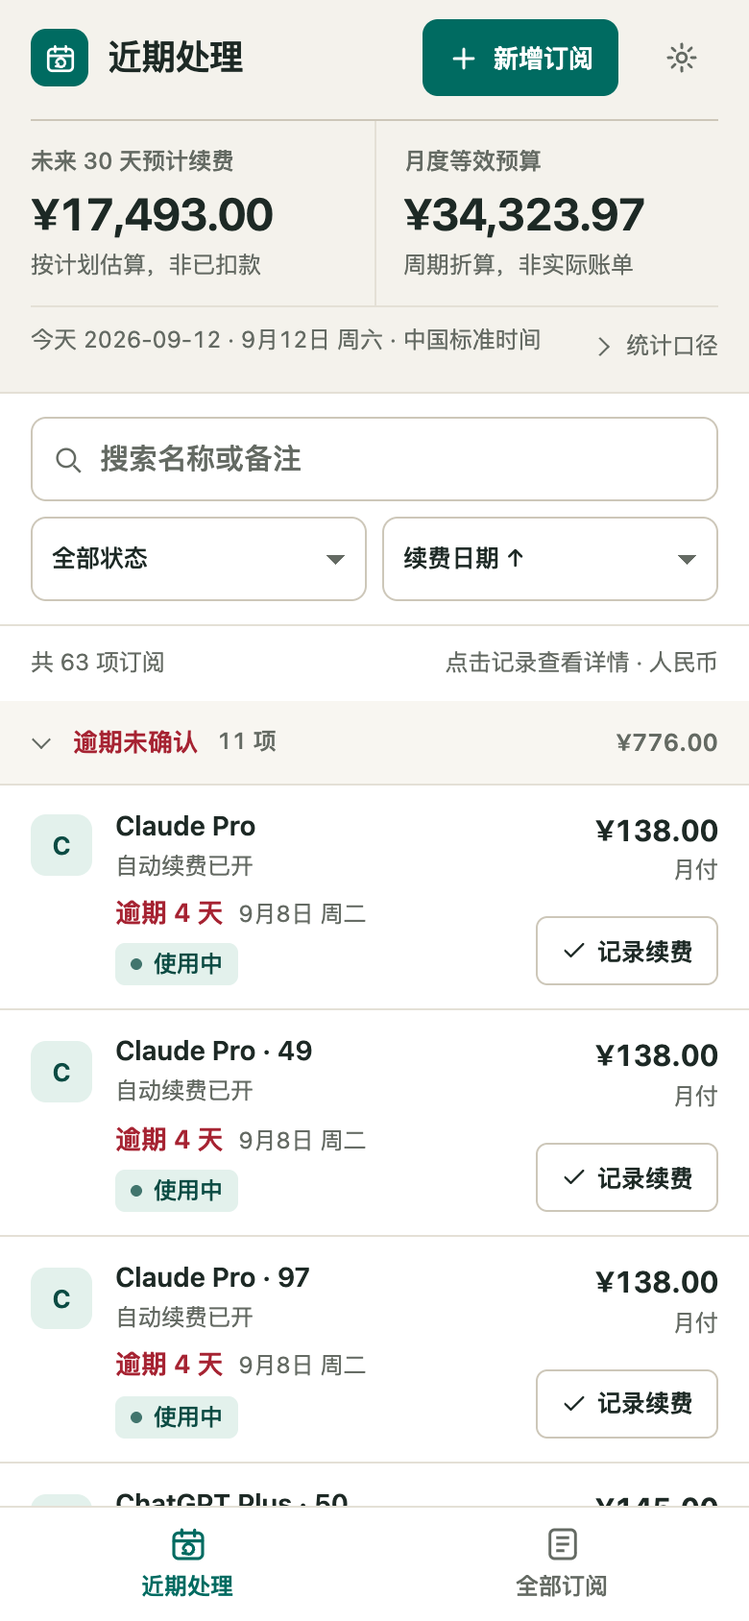
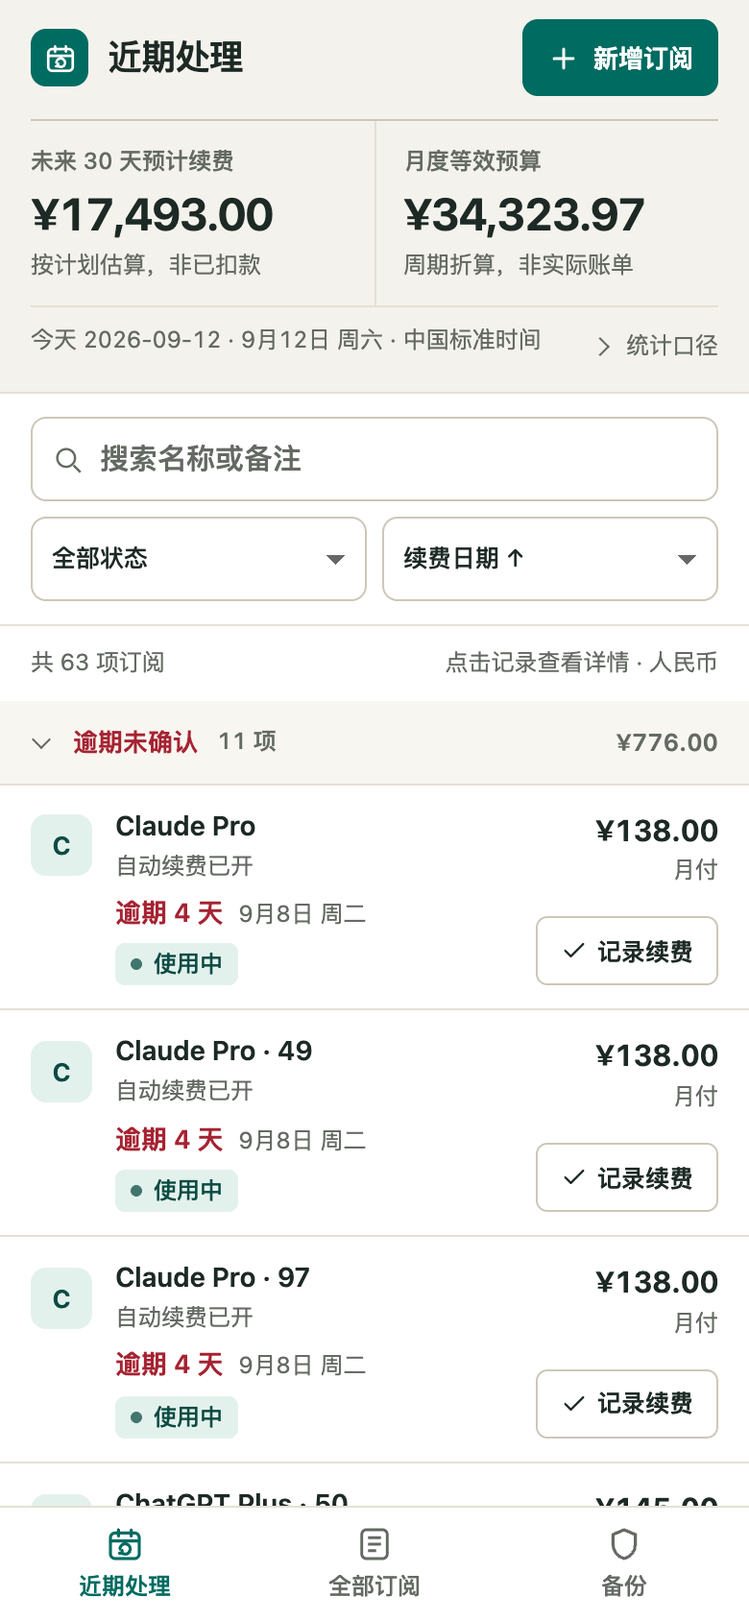
feat: backup back in sidebar, bottom-left logout, manual light/dark theme
- 侧栏依次为 近期处理 / 全部订阅 / 数据备份；左下角为外观切换与退出登录，右上角菜单撤除
- 手机底栏恢复三个视图，备份页底部提供外观切换与退出登录
- 新增 theme.js：首帧前读取本地偏好写入 data-theme；深色令牌同时支持跟随系统与手动指定
- 修正折叠侧栏时分组条数被误隐藏的问题
- README、验收记录、PRODUCT.md 与 docs/ui 截图同步更新

diff --git a/static/app.js b/static/app.js
@@ -44,13 +44,12 @@ async function api(url, method='GET', body) {
       csrf='';items=[];stats={};focusKey='';filterKey='all';viewKey='recent';keyword='';sortKey='date';collapsedGroups.clear();
       selectedId='';displayedDetailId='';history.replaceState(null,'',location.pathname+location.search);
       $('#search').value='';$('#sort').value='date';$('#filter').value='all';
-      $('#ledger').hidden=true; $('#login-panel').hidden=false; $('#logout').hidden=true;
+      $('#ledger').hidden=true; $('#login-panel').hidden=false; $('#logout').hidden=true; $('#logout-mobile').hidden=true;
       for(const s of ['#items','#detail-body','#detail-actions'])$(s).replaceChildren();
       for(const s of ['#budget','#forecast','#window-note','#renew-name','#renew-diff','#message','#edit-error','#renew-error','#restore-status','#detail-title','#result-count','#recent-count','#all-count','#plan-preview','#overdue-count','#confirm-title','#confirm-body','#confirm-note'])$(s).textContent='';
       $('#message').className='';
       for(const s of ['#editor','#renew-dialog','#detail','#confirm-dialog'])if($(s).open)$(s).close();
       $('#item-form').reset();$('#renew-form').reset();$('#import-file').value='';$('#restore').disabled=true;
-      try{$('#menu').hidePopover();}catch(e){/* popover 未打开或不支持时忽略 */}
       try{csrf=(await api('/api/session')).csrf;}catch(e){/* Login retries session discovery; private DOM stays cleared. */}
     }
     throw new Error(data.error||`请求失败 ${response.status}`);
@@ -248,7 +247,7 @@ function renew(r) {
   $('#renew-dialog').showModal();
 }
 async function submitGuard(form, fn, target) {const b=form.querySelector('button[type="submit"]');const original=b.textContent;b.disabled=true;b.textContent='保存中…';target.textContent='';try{await fn();}catch(e){target.textContent=e.message;}finally{b.disabled=false;b.textContent=original;}}
-$('#login-form').addEventListener('submit',e=>{e.preventDefault();submitGuard(e.target,async()=>{csrf=(await api('/api/session')).csrf;const result=await api('/api/login','POST',{password:e.target.elements.password.value});csrf=result.csrf;e.target.reset();$('#login-panel').hidden=true;$('#ledger').hidden=false;$('#logout').hidden=false;await load();},$('#message'));});
+$('#login-form').addEventListener('submit',e=>{e.preventDefault();submitGuard(e.target,async()=>{csrf=(await api('/api/session')).csrf;const result=await api('/api/login','POST',{password:e.target.elements.password.value});csrf=result.csrf;e.target.reset();$('#login-panel').hidden=true;$('#ledger').hidden=false;$('#logout').hidden=false;$('#logout-mobile').hidden=false;await load();},$('#message'));});
 $('#item-form').addEventListener('submit',e=>{e.preventDefault();submitGuard(e.target,async()=>{const f=e.target.elements;const r={};for(const key of ['name','amount','cycle','next_date','status','url','notes'])r[key]=f[key].value;r.days=r.cycle==='days'?Number(f.days.value):null;r.end_date=f.end_date.value||null;r.auto_renew=f.auto_renew.checked;const editing=f.id.value;clearReport();await api(editing?`/api/items/${editing}`:'/api/items',editing?'PUT':'POST',r);$('#editor').close();focusKey=editing?`${editing}:detail`:'';try{await load();}catch(error){reportError('已保存，但列表刷新失败：'+error.message);return;}reportOk(editing?`已保存「${r.name}」`:`已新增「${r.name}」`);},$('#edit-error'));});
 $('#renew-form').addEventListener('submit',e=>{e.preventDefault();submitGuard(e.target,async()=>{const f=e.target.elements;const r=items.find(x=>x.id===f.id.value);clearReport();await api(`/api/items/${f.id.value}/renew`,'POST',{actual_date:f.actual_date.value,next_date:f.next_date.value,confirm:f.confirm.checked});$('#renew-dialog').close();focusKey=`${f.id.value}:renew`;try{await load();}catch(error){reportError('已记录续费，但列表刷新失败：'+error.message);return;}reportOk(`已续费「${r?r.name:'订阅'}」· 下次 ${f.next_date.value}（${friendlyDate(f.next_date.value)}）`);},$('#renew-error'));});
 $('#item-form').elements.cycle.addEventListener('change',cycleField);
@@ -281,12 +280,18 @@ document.addEventListener('keydown',e=>{
 for(const d of document.querySelectorAll('dialog'))d.addEventListener('click',e=>{if(e.target===d){const box=d.getBoundingClientRect();if(e.clientX<box.left||e.clientX>box.right||e.clientY<box.top||e.clientY>box.bottom){if(d.id==='detail')closeDetail();else d.close();}}});
 async function logout(){try{await api('/api/logout','POST',{});location.reload();}catch(e){reportError(e);}}
 $('#logout').addEventListener('click',logout);
-// 右上角菜单：打开时聚焦首项，选择后收起。
-$('#menu').addEventListener('toggle',e=>{if(e.newState==='open')$('#menu .menu-item:not([hidden])')?.focus();});
-for(const item of document.querySelectorAll('#menu .menu-item'))item.addEventListener('click',()=>$('#menu').hidePopover());
+$('#logout-mobile').addEventListener('click',logout);
+// 外观：跟随系统 / 浅色 / 深色。偏好存浏览器本地，theme.js 在首帧前读取。
+function applyTheme(mode){
+  if(mode==='light'||mode==='dark')document.documentElement.dataset.theme=mode;else delete document.documentElement.dataset.theme;
+  try{if(mode==='system')localStorage.removeItem('ledger-theme');else localStorage.setItem('ledger-theme',mode);}catch(e){/* 私密模式等无法持久化时仍即时生效 */}
+  for(const b of document.querySelectorAll('[data-theme-mode]'))b.setAttribute('aria-pressed',String(b.dataset.themeMode===mode));
+}
+for(const b of document.querySelectorAll('[data-theme-mode]'))b.addEventListener('click',()=>applyTheme(b.dataset.themeMode));
+applyTheme(document.documentElement.dataset.theme||'system');
 $('#export').addEventListener('click',async()=>{try{const backup=await api('/api/export');const url=URL.createObjectURL(new Blob([JSON.stringify(backup,null,2)],{type:'application/json'}));const a=document.createElement('a');a.href=url;a.download=`订阅账本-${stats.today}.json`;a.click();setTimeout(()=>URL.revokeObjectURL(url),1000);reportOk('已导出备份 JSON。');}catch(e){reportError(e);}});
 $('#import-file').addEventListener('change',()=>{$('#restore').disabled=!$('#import-file').files.length;localReport('#restore-status','');});
 $('#restore').addEventListener('click',async()=>{const button=$('#restore');try{const file=$('#import-file').files[0];if(!file)throw new Error('请先选择备份文件');if(file.size>2*1024*1024)throw new Error('文件超过 2 MiB');const backup=JSON.parse(await file.text());const incoming=Array.isArray(backup?.items)?backup.items.length:0;
   const ok=await confirmDialog({title:'覆盖并恢复备份？',body:`当前 ${items.length} 条订阅及全部续费历史将被备份中的 ${incoming} 条记录替换。`,note:'服务器会先备份现有数据库，恢复后的旧库文件名会显示在这里。',accept:'覆盖并恢复'});
   if(!ok)return;button.disabled=true;localReport('#restore-status','正在恢复…',true);const result=await api('/api/restore','POST',{confirm:true,backup});await load();localReport('#restore-status',`恢复完成，旧数据库已备份为 ${result.backup_file}`,true);$('#import-file').value='';}catch(e){localReport('#restore-status',e.message||String(e),false);}finally{button.disabled=!$('#import-file').files.length;}});
-(async()=>{try{const s=await api('/api/session');csrf=s.csrf;$('#login-panel').hidden=s.authenticated;$('#ledger').hidden=!s.authenticated;$('#logout').hidden=!s.authenticated;if(!s.configured)reportError(new Error('尚未设置密码，请在服务器按 README 初始化。'));if(s.authenticated)await load();}catch(e){reportError(e);}})();
+(async()=>{try{const s=await api('/api/session');csrf=s.csrf;$('#login-panel').hidden=s.authenticated;$('#ledger').hidden=!s.authenticated;$('#logout').hidden=!s.authenticated;$('#logout-mobile').hidden=!s.authenticated;if(!s.configured)reportError(new Error('尚未设置密码，请在服务器按 README 初始化。'));if(s.authenticated)await load();}catch(e){reportError(e);}})();

diff --git a/templates/index.html b/templates/index.html
@@ -7,6 +7,7 @@
 <title>订阅账本</title>
 <link rel="icon" type="image/svg+xml" href="/static/favicon.svg">
 <link rel="stylesheet" href="/static/style.css">
+<script src="/static/theme.js"></script>
 <script src="/static/app.js" defer></script>
 </head>
 <body>
@@ -27,7 +28,9 @@
 <symbol id="i-shield" viewBox="0 0 24 24" fill="none" stroke="currentColor" stroke-width="1.9" stroke-linecap="round" stroke-linejoin="round"><path d="M12 3l7 3v6c0 4.5-3 8-7 9-4-1-7-4.5-7-9V6Z"/></symbol>
 <symbol id="i-panel" viewBox="0 0 24 24" fill="none" stroke="currentColor" stroke-width="1.8"><rect x="3" y="4" width="18" height="16" rx="2"/><path d="M9 4v16"/></symbol>
 <symbol id="i-list" viewBox="0 0 24 24" fill="none" stroke="currentColor" stroke-width="1.8"><rect x="4" y="3" width="16" height="18" rx="3"/><path d="M8 8h8M8 12h8M8 16h5"/></symbol>
-<symbol id="i-more" viewBox="0 0 24 24" fill="currentColor"><circle cx="5" cy="12" r="2"/><circle cx="12" cy="12" r="2"/><circle cx="19" cy="12" r="2"/></symbol>
+<symbol id="i-auto" viewBox="0 0 24 24" fill="none" stroke="currentColor" stroke-width="1.9"><circle cx="12" cy="12" r="8.5"/><path d="M12 3.5a8.5 8.5 0 0 1 0 17Z" fill="currentColor" stroke="none"/></symbol>
+<symbol id="i-sun" viewBox="0 0 24 24" fill="none" stroke="currentColor" stroke-width="1.9" stroke-linecap="round"><circle cx="12" cy="12" r="4"/><path d="M12 2.5v2.2M12 19.3v2.2M2.5 12h2.2M19.3 12h2.2M5.3 5.3l1.6 1.6M17.1 17.1l1.6 1.6M5.3 18.7l1.6-1.6M17.1 6.9l1.6-1.6"/></symbol>
+<symbol id="i-moon" viewBox="0 0 24 24" fill="none" stroke="currentColor" stroke-width="1.9" stroke-linecap="round" stroke-linejoin="round"><path d="M20.5 14.2A8.5 8.5 0 1 1 9.8 3.5a6.8 6.8 0 0 0 10.7 10.7Z"/></symbol>
 </defs></svg>
 
 <p id="message" role="status" aria-live="polite"></p>
@@ -45,11 +48,15 @@
   <aside class="sidebar" aria-label="工作空间">
     <div class="brand"><span class="brand-mark" aria-hidden="true"><svg><use href="#i-logo"/></svg></span><div class="brand-copy"><b>订阅账本</b><small>个人订阅工作台</small></div></div>
     <nav aria-label="主导航"><a href="#recent" data-view="recent" class="nav-item"><svg aria-hidden="true"><use href="#i-logo"/></svg><span class="nav-text">近期处理</span><span id="recent-count" class="count"></span></a>
-      <a href="#all" data-view="all" class="nav-item"><svg aria-hidden="true"><use href="#i-list"/></svg><span class="nav-text">全部订阅</span><span id="all-count" class="count"></span></a></nav>
+      <a href="#all" data-view="all" class="nav-item"><svg aria-hidden="true"><use href="#i-list"/></svg><span class="nav-text">全部订阅</span><span id="all-count" class="count"></span></a>
+      <a href="#backup" data-view="backup" class="nav-item"><svg aria-hidden="true"><use href="#i-shield"/></svg><span class="nav-text">数据备份</span></a></nav>
+    <div class="sidebar-bottom">
+      <div class="theme-picker" role="group" aria-label="外观"><button type="button" data-theme-mode="system" aria-pressed="true" aria-label="跟随系统" title="跟随系统"><svg aria-hidden="true"><use href="#i-auto"/></svg><span class="theme-label">系统</span></button><button type="button" data-theme-mode="light" aria-pressed="false" aria-label="浅色" title="浅色"><svg aria-hidden="true"><use href="#i-sun"/></svg><span class="theme-label">浅色</span></button><button type="button" data-theme-mode="dark" aria-pressed="false" aria-label="深色" title="深色"><svg aria-hidden="true"><use href="#i-moon"/></svg><span class="theme-label">深色</span></button></div>
+      <button id="logout" class="nav-item" hidden><svg aria-hidden="true"><use href="#i-logout"/></svg><span class="nav-text">退出登录</span></button>
+    </div>
   </aside>
   <main class="main-workspace">
-    <header class="topbar"><button id="collapse-nav" class="icon-btn" aria-label="收起导航" aria-expanded="true"><svg aria-hidden="true"><use href="#i-panel"/></svg></button><span class="brand-mark topbar-mark" aria-hidden="true"><svg><use href="#i-logo"/></svg></span><h1 id="page-title">近期处理</h1><span id="page-desc" class="muted">先处理到期事项，再整理订阅</span><span class="grow"></span><button id="add" title="快捷键 N"><svg aria-hidden="true"><use href="#i-plus"/></svg>新增订阅</button><button id="menu-button" class="icon-btn" popovertarget="menu" aria-label="备份与账户" title="备份与账户"><svg aria-hidden="true"><use href="#i-more"/></svg></button>
-      <div id="menu" class="menu" popover><a href="#backup" data-view="backup" class="menu-item"><svg aria-hidden="true"><use href="#i-shield"/></svg>数据备份与恢复</a><button id="logout" class="menu-item" type="button" hidden><svg aria-hidden="true"><use href="#i-logout"/></svg>退出登录</button></div></header>
+    <header class="topbar"><button id="collapse-nav" class="icon-btn" aria-label="收起导航" aria-expanded="true"><svg aria-hidden="true"><use href="#i-panel"/></svg></button><span class="brand-mark topbar-mark" aria-hidden="true"><svg><use href="#i-logo"/></svg></span><h1 id="page-title">近期处理</h1><span id="page-desc" class="muted">先处理到期事项，再整理订阅</span><span class="grow"></span><button id="add" title="快捷键 N"><svg aria-hidden="true"><use href="#i-plus"/></svg>新增订阅</button></header>
     <section id="overview" class="overview" aria-label="统计">
       <div class="metrics"><article><span>未来 30 天预计续费</span><strong id="forecast">—</strong><small>按计划估算，非已扣款</small></article><article><span>逾期未确认</span><strong id="overdue-count">—</strong><small>确认是否已续费，或更新计划</small></article><article><span>月度等效预算</span><strong id="budget">—</strong><small>周期折算，非实际账单</small></article></div>
       <div class="overview-note"><p id="window-note"></p><details class="calculation"><summary>统计口径</summary><p>使用中与准备取消计入预算。未来 30 天包含今天，不包含第 30 天；同一订阅可能有多次预计续费。近期处理仅显示每个订阅当前待确认的计划，分组小计为组内各订阅当前计划的每期金额之和。</p></details></div>
@@ -78,9 +85,13 @@
     <label>选择要恢复的 JSON（最大 2 MiB）<input id="import-file" type="file" accept=".json,application/json"></label>
     <p id="restore-status" role="status"></p>
     <p class="muted">本应用不会自动扣款、取消订阅或发送主动提醒。取消请前往对应服务操作，再更新这里的状态。</p>
+    <div class="mobile-account">
+      <div class="theme-picker" role="group" aria-label="外观"><button type="button" data-theme-mode="system" aria-pressed="true"><svg aria-hidden="true"><use href="#i-auto"/></svg><span class="theme-label">跟随系统</span></button><button type="button" data-theme-mode="light" aria-pressed="false"><svg aria-hidden="true"><use href="#i-sun"/></svg><span class="theme-label">浅色</span></button><button type="button" data-theme-mode="dark" aria-pressed="false"><svg aria-hidden="true"><use href="#i-moon"/></svg><span class="theme-label">深色</span></button></div>
+      <button id="logout-mobile" class="ghost" hidden><svg aria-hidden="true"><use href="#i-logout"/></svg>退出登录</button>
+    </div>
     </div>
   </section>  </main>
-  <nav class="mobile-nav" aria-label="手机导航"><a href="#recent" data-view="recent"><svg aria-hidden="true"><use href="#i-logo"/></svg>近期处理</a><a href="#all" data-view="all"><svg aria-hidden="true"><use href="#i-list"/></svg>全部订阅</a></nav>
+  <nav class="mobile-nav" aria-label="手机导航"><a href="#recent" data-view="recent"><svg aria-hidden="true"><use href="#i-logo"/></svg>近期处理</a><a href="#all" data-view="all"><svg aria-hidden="true"><use href="#i-list"/></svg>全部订阅</a><a href="#backup" data-view="backup"><svg aria-hidden="true"><use href="#i-shield"/></svg>备份</a></nav>
 </div>
 
 <dialog id="editor" aria-labelledby="editor-title">

diff --git a/static/style.css b/static/style.css
@@ -31,8 +31,9 @@
   --tap:44px;
   --ease:cubic-bezier(.2,.8,.2,1)
 }
+/* 深色：默认跟随系统；用户在侧栏手动选择时以 <html data-theme> 为准（theme.js 首帧前写入）。 */
 @media(prefers-color-scheme:dark) {
-  :root {
+  :root:not([data-theme=light]) {
     color-scheme:dark;
     --bg:#131917;
     --card:#1a201e;
@@ -61,6 +62,35 @@
     --shadow:0 12px 32px -8px #000a,0 2px 6px #0006;
     --shadow-lg:0 24px 64px -16px #000c,0 4px 12px #0007
   }
+}
+:root[data-theme=dark] {
+  color-scheme:dark;
+  --bg:#131917;
+  --card:#1a201e;
+  --soft:#212927;
+  --ink:#e9efeb;
+  --muted:#a3b0a9;
+  --line:#2f3936;
+  --rule:#3d4a45;
+  --accent:#7cd6be;
+  --accent-hover:#9ce4d2;
+  --accent-soft:#1f3a33;
+  --accent-ink:#bfeadc;
+  --on-accent:#0f2a26;
+  --nav:#171d1b;
+  --nav-muted:#a3b0a9;
+  --nav-hover:#232b28;
+  --nav-current:#27312d;
+  --nav-badge:#2b3531;
+  --danger:#ff9ea9;
+  --danger-hover:#ffb3bb;
+  --danger-soft:#3d262b;
+  --on-danger:#2b151a;
+  --warn:#f0c283;
+  --warn-soft:#3a3123;
+  --shadow-sm:0 1px 2px #0006,0 8px 24px -12px #0008;
+  --shadow:0 12px 32px -8px #000a,0 2px 6px #0006;
+  --shadow-lg:0 24px 64px -16px #000c,0 4px 12px #0007
 }
 
 /* ---------- 基础 ---------- */
@@ -664,6 +694,47 @@ dialog form,.drawer-layout {
   background:var(--accent-soft);
   color:var(--accent-ink)
 }
+.sidebar-bottom {
+  margin-top:auto;
+  display:grid;
+  gap:6px;
+  padding-top:20px
+}
+.theme-picker {
+  display:flex;
+  gap:2px;
+  padding:3px;
+  border-radius:9px;
+  background:var(--nav-badge)
+}
+.theme-picker button {
+  flex:1;
+  min-height:34px;
+  padding:0 6px;
+  gap:6px;
+  border-radius:7px;
+  background:transparent;
+  color:var(--nav-muted);
+  font-size:12.5px;
+  font-weight:500;
+  white-space:nowrap
+}
+.theme-picker button svg {
+  width:15px;
+  height:15px
+}
+.theme-picker button:hover {
+  background:var(--nav-hover);
+  color:var(--ink)
+}
+.theme-picker button[aria-pressed=true] {
+  background:var(--nav-current);
+  color:var(--ink);
+  box-shadow:0 1px 2px #0000000f
+}
+.mobile-account {
+  display:none
+}
 .main-workspace {
   display:flex;
   flex-direction:column;
@@ -700,72 +771,6 @@ dialog form,.drawer-layout {
 }
 .topbar #add {
   white-space:nowrap
-}
-.topbar #menu-button {
-  margin-left:4px
-}
-.menu {
-  position:fixed;
-  inset:auto;
-  top:56px;
-  right:22px;
-  margin:0;
-  min-width:220px;
-  padding:6px;
-  border:0;
-  border-radius:10px;
-  background:var(--card);
-  color:var(--ink);
-  box-shadow:var(--shadow-lg);
-  display:none
-}
-.menu:popover-open {
-  display:grid;
-  gap:2px;
-  animation:menu-in .16s var(--ease)
-}
-@keyframes menu-in {
-  from {
-    opacity:0;
-    transform:translateY(-4px)
-  }
-  to {
-    opacity:1;
-    transform:none
-  }
-}
-.menu-item {
-  display:flex;
-  align-items:center;
-  gap:10px;
-  width:100%;
-  min-height:40px;
-  padding:0 12px;
-  border:0;
-  border-radius:7px;
-  background:transparent;
-  color:var(--ink);
-  font-size:13.5px;
-  font-weight:500;
-  text-decoration:none;
-  justify-content:flex-start;
-  white-space:nowrap;
-  cursor:pointer
-}
-.menu-item svg {
-  width:17px;
-  height:17px;
-  color:var(--muted)
-}
-.menu-item:hover {
-  background:var(--soft)
-}
-.menu-item[aria-current=page] {
-  background:var(--accent-soft);
-  color:var(--accent-ink)
-}
-.menu-item[aria-current=page] svg {
-  color:currentColor
 }
 
 /* ---------- 统计 ---------- */
@@ -1477,8 +1482,11 @@ dialog form,.drawer-layout {
   padding:0 4px 26px;
   justify-content:center
 }
-.nav-collapsed .brand-copy,.nav-collapsed .count {
+.nav-collapsed .brand-copy,.nav-collapsed .nav-item .count,.nav-collapsed .theme-label {
   display:none
+}
+.nav-collapsed .theme-picker {
+  flex-direction:column
 }
 .nav-collapsed .nav-item {
   justify-content:center;
@@ -1544,8 +1552,11 @@ dialog form,.drawer-layout {
     padding:0 4px 26px;
     justify-content:center
   }
-  .brand-copy,.sidebar .count,#collapse-nav {
+  .brand-copy,.sidebar .count,#collapse-nav,.theme-label {
     display:none
+  }
+  .theme-picker {
+    flex-direction:column
   }
   .nav-item {
     justify-content:center;
@@ -1600,10 +1611,6 @@ dialog form,.drawer-layout {
     min-height:40px;
     font-size:13px;
     padding:0 12px
-  }
-  .menu {
-    top:calc(54px + env(safe-area-inset-top));
-    right:12px
   }
   .overview {
     padding:2px 16px 12px
@@ -1759,6 +1766,24 @@ dialog form,.drawer-layout {
     min-height:44px;
     font-size:13px
   }
+  .mobile-account {
+    display:grid;
+    gap:12px;
+    margin-top:24px;
+    padding-top:20px;
+    border-top:1px solid var(--line)
+  }
+  .mobile-account .theme-picker {
+    background:var(--soft)
+  }
+  .mobile-account .theme-picker button {
+    min-height:40px;
+    color:var(--muted)
+  }
+  .mobile-account .theme-picker button[aria-pressed=true] {
+    background:var(--card);
+    color:var(--ink)
+  }
   #message {
     bottom:calc(74px + env(safe-area-inset-bottom))
   }
@@ -1786,15 +1811,25 @@ dialog form,.drawer-layout {
     animation:none!important
   }
 }
-/* 深色模式下阴影不可见：弹窗与覆盖式详情改用描边定义边缘。 */
+/* 深色模式下阴影不可见：弹窗与覆盖式详情改用描边定义边缘（跟随系统 / 手动深色各一份）。 */
 @media(prefers-color-scheme:dark) {
-  dialog,.menu {
+  :root:not([data-theme=light]) dialog {
     border:1px solid var(--line);
     box-shadow:none
   }
 }
-@media(prefers-color-scheme:dark) and (max-width:1279px) {
-  #detail {
+:root[data-theme=dark] dialog {
+  border:1px solid var(--line);
+  box-shadow:none
+}
+@media(prefers-color-scheme:dark) and (min-width:761px) and (max-width:1279px) {
+  :root:not([data-theme=light]) #detail {
+    border-left:1px solid var(--line);
+    box-shadow:none
+  }
+}
+@media(min-width:761px) and (max-width:1279px) {
+  :root[data-theme=dark] #detail {
     border-left:1px solid var(--line);
     box-shadow:none
   }

diff --git a/static/theme.js b/static/theme.js
@@ -1,0 +1,2 @@
+// 首帧前应用手动选择的深浅色；未选择时由 CSS 跟随系统。仅存偏好，不含任何账本数据。
+(function(){try{var t=localStorage.getItem('ledger-theme');if(t==='light'||t==='dark')document.documentElement.dataset.theme=t;}catch(e){}})();

diff --git a/docs/acceptance.md b/docs/acceptance.md
@@ -2,9 +2,10 @@
 
 ## 2026-09-12 界面性格与交互（第二轮）
 
-- 用户选定「更有辨识度」方向：保留布局与青绿主色，改为纸面色工作区、白色账页、分栏表格；深青侧栏方案被用户否决后改为浅暖灰侧栏。侧栏底部说明文字删除；数据备份与退出登录移入右上角「⋯」菜单（原生 popover），手机底栏只剩两个视图。
+- 用户选定「更有辨识度」方向：保留布局与青绿主色，改为纸面色工作区、白色账页、分栏表格；深青侧栏方案被用户否决后改为浅暖灰侧栏。侧栏底部说明文字删除。备份入口曾短暂移到右上角菜单，用户要求放回侧栏：现为「近期处理 / 全部订阅 / 数据备份」三项，左下角为外观切换与退出登录；手机底栏三个视图，备份页底部提供外观切换与退出。
+- 外观切换：跟随系统 / 浅色 / 深色，偏好存浏览器 localStorage（仅主题名，不含账本数据）；`static/theme.js` 在首帧前写入 `data-theme`，CSS 深色令牌同时提供「跟随系统」与「手动指定」两条路径。
 - 交互：整行可点开详情（按钮与选中文字除外）；近期页逾期与 7 天内的行内「记录续费」；分组标题显示条数与每期金额小计；金额千分位；日期显示相对天数 + 中文日期（周几），`<time>` 保留 ISO；快捷键 `/`、`N`、`Esc`；删除与恢复备份改为页面内 `<dialog>` 确认并写明影响记录数；空态带下一步按钮。
-- 验证：37 项 pytest、8 组 HTTP 烟测、会话回归与 UI 回归（新增金额/日期/相对天数断言）全部通过。Playwright 驱动本机 Chrome 对 1440×900 与 390×844 做 31 项只读交互检查（快捷键、整行点击、行内续费入口、确认弹窗取消、菜单开合与聚焦、手机模态详情、触控目标 ≥44px、卡片模式日期行对齐），全部通过，控制台无 error/warn。1440 / 1280 / 900 / 390 宽度列表与文档无横向溢出。
+- 验证：37 项 pytest、8 组 HTTP 烟测、会话回归与 UI 回归（新增金额/日期/相对天数断言）全部通过。Playwright 驱动本机 Chrome 对 1440×900 与 390×844 做 36 项只读交互检查（快捷键、整行点击、行内续费入口、确认弹窗取消、侧栏顺序、主题切换即时生效与刷新后保持、手机模态详情、触控目标 ≥44px、卡片模式日期行对齐），全部通过，控制台无 error/warn。1440 / 1280 / 900 / 390 宽度列表与文档无横向溢出。折叠侧栏时分组条数曾被误隐藏，已修正。
 - Impeccable 机械检测器：无 tiny-text；剩余 3 条 cramped-padding 为账页容器与 `<dialog>` 的误报（子元素各自带内边距，容器本身不直接承载文字）。浅色弹窗用阴影、深色用描边，不再同时叠加。
 - docs/ui 截图已替换为本轮界面。仍未做真实手机、软键盘验收；未改后端、正式数据库、Docker 或 Nginx；预览服务与样例库未动。
 

diff --git a/README.md b/README.md
@@ -34,7 +34,7 @@ python3 -m venv .venv
 
 ## 备份、恢复与回滚
 
-工作台为浅灰侧栏 + 纸面色工作区，侧栏只有「近期处理 / 全部订阅」两个视图；数据备份与退出登录收在右上角「⋯」菜单里，手机底栏同样只保留两个视图。近期页保留三项统计（未来 30 天预计续费、逾期未确认、月度等效预算），清单按逾期 / 7 天内 / 30 天内分组并显示组内每期金额小计；逾期与 7 天内的记录行内直接提供「记录续费」。全部页直接显示清单，工具栏固定、列表独立滚动，支持名称/备注搜索、状态筛选、组内排序与分组折叠（已取消、已结束默认折叠）。整行可点击打开详情；宽屏详情与列表并排，窄屏为原生模态。金额千分位显示，日期同时给出「逾期/还剩 N 天」和「9月8日 周二」读法，记录本身仍为 ISO 日期。快捷键：`/` 聚焦搜索，`N` 新增订阅，`Esc` 关闭详情。删除与恢复备份使用页面内确认弹窗并写明影响的记录数。URL hash 保留视图和选中记录，支持刷新及浏览器返回。所有图标与资源均在本地，深色模式随系统。
+工作台为浅灰侧栏 + 纸面色工作区，侧栏依次为「近期处理 / 全部订阅 / 数据备份」，左下角是外观切换（跟随系统 / 浅色 / 深色，偏好存浏览器本地）与退出登录；手机底栏同样三个视图，外观切换与退出登录放在备份页底部。近期页保留三项统计（未来 30 天预计续费、逾期未确认、月度等效预算），清单按逾期 / 7 天内 / 30 天内分组并显示组内每期金额小计；逾期与 7 天内的记录行内直接提供「记录续费」。全部页直接显示清单，工具栏固定、列表独立滚动，支持名称/备注搜索、状态筛选、组内排序与分组折叠（已取消、已结束默认折叠）。整行可点击打开详情；宽屏详情与列表并排，窄屏为原生模态。金额千分位显示，日期同时给出「逾期/还剩 N 天」和「9月8日 周二」读法，记录本身仍为 ISO 日期。快捷键：`/` 聚焦搜索，`N` 新增订阅，`Esc` 关闭详情。删除与恢复备份使用页面内确认弹窗并写明影响的记录数。URL hash 保留视图和选中记录，支持刷新及浏览器返回。所有图标与资源均在本地，深色模式默认随系统，也可手动指定。
 
 页面导出 JSON 包含订阅及续费历史，不包含登录密码/密钥。`version=1` 格式不变，新版支持恢复旧有月付/年付/天数备份以及含季付的备份；旧版应用不支持含 `quarterly` 的备份。备份仍含私人备注，需安全存放。
 

diff --git a/PRODUCT.md b/PRODUCT.md
@@ -105,4 +105,4 @@ web
 
 ## 2026-09-12 视觉方向（第二轮）
 
-用户从「精修现有风格 / 更有辨识度 / 整体重做」中选定「更有辨识度」：布局与青绿主色不变，工作区改为纸面色底 + 白色账页 + 分栏表格，金额成为每行视觉锚点。用户否决了深青色侧栏（「颜色太丑」），最终侧栏为浅暖灰、青绿只用于品牌标、当前项与主按钮；侧栏底部「单人使用 · 人民币 / 日期按中国标准时间」说明按用户要求删除。数据备份与退出登录从侧栏移到右上角「⋯」菜单，手机底栏只保留近期处理与全部订阅。交互一并落地：整行可点、近期页行内续费、中文日期与剩余天数、页面内确认弹窗、快捷键。仍无 DESIGN.md；如需固化令牌与组件规范，可运行 `/impeccable document`。
+用户从「精修现有风格 / 更有辨识度 / 整体重做」中选定「更有辨识度」：布局与青绿主色不变，工作区改为纸面色底 + 白色账页 + 分栏表格，金额成为每行视觉锚点。用户否决了深青色侧栏（「颜色太丑」），最终侧栏为浅暖灰、青绿只用于品牌标、当前项与主按钮；侧栏底部「单人使用 · 人民币 / 日期按中国标准时间」说明按用户要求删除。数据备份曾短暂移到右上角菜单，用户随后要求放回侧栏：现在侧栏为「近期处理 / 全部订阅 / 数据备份」，左下角是外观切换与退出登录；手机底栏保留三个视图，外观切换与退出放在备份页底部。用户问及换肤后新增「跟随系统 / 浅色 / 深色」三段切换，偏好存浏览器本地，不做多套配色皮肤。交互一并落地：整行可点、近期页行内续费、中文日期与剩余天数、页面内确认弹窗、快捷键。仍无 DESIGN.md；如需固化令牌与组件规范，可运行 `/impeccable document`。
